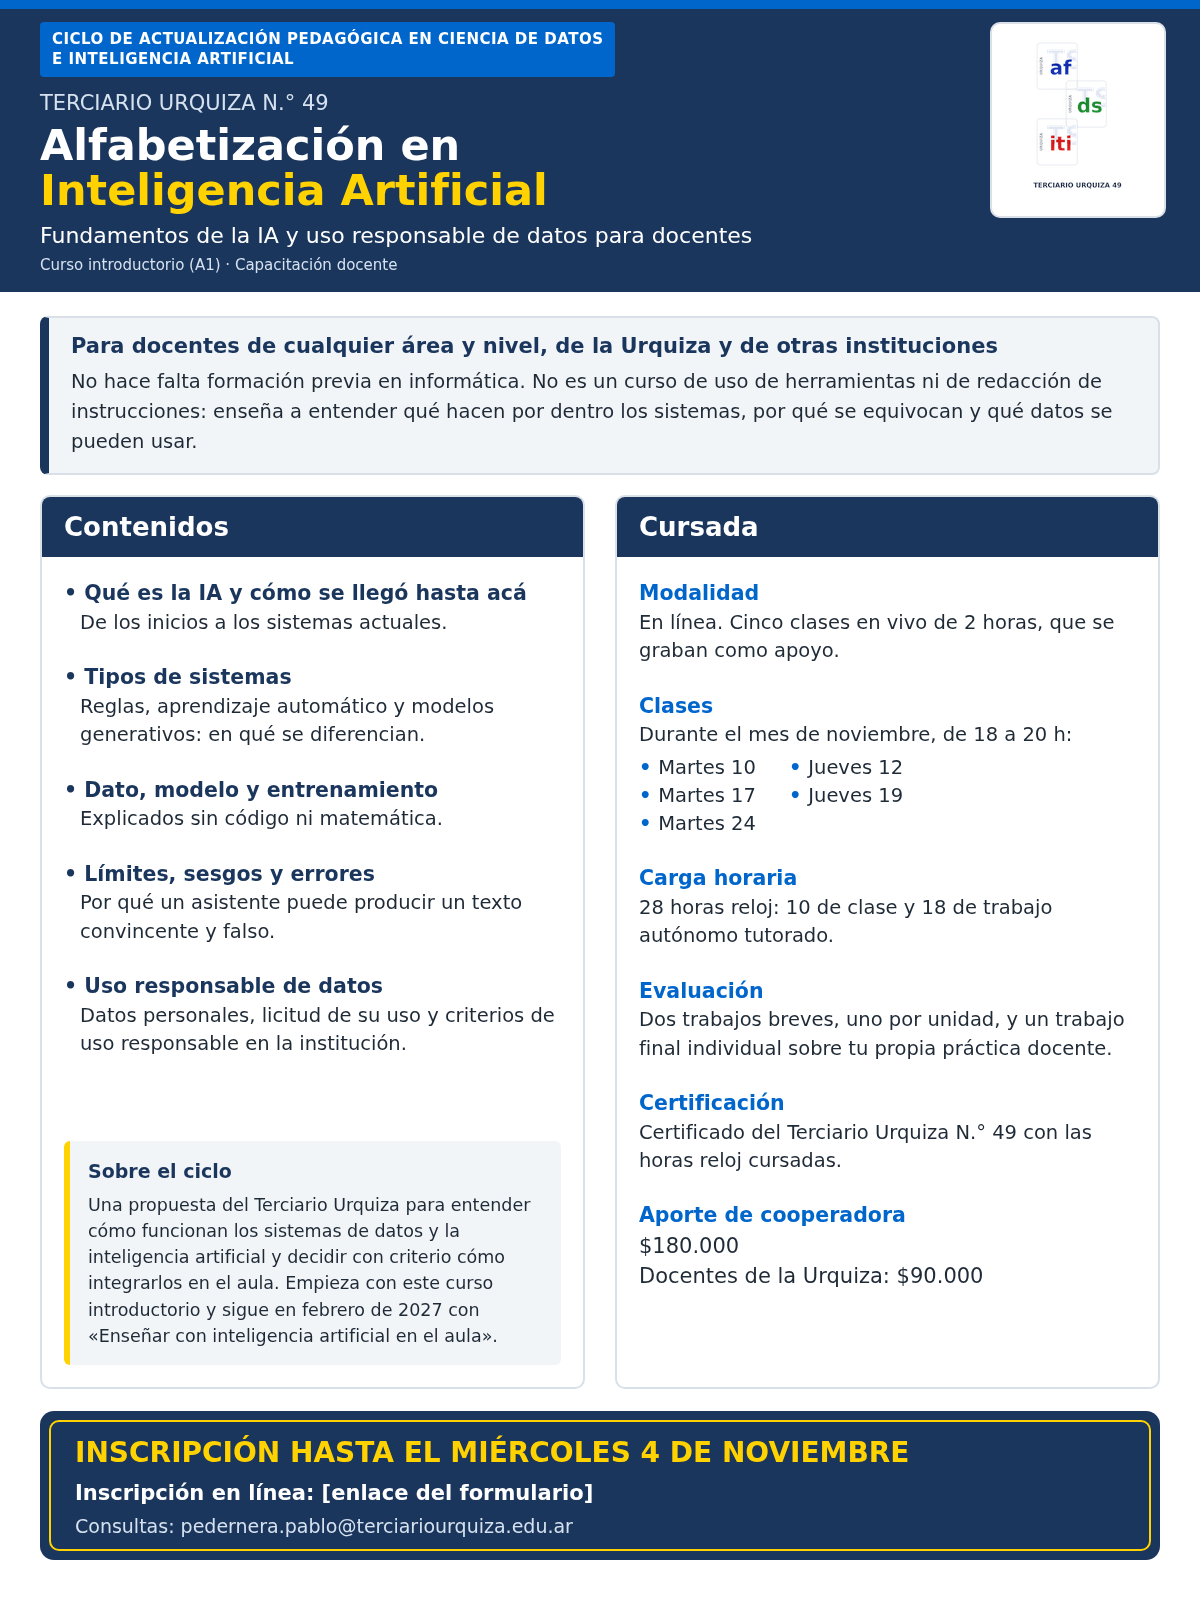
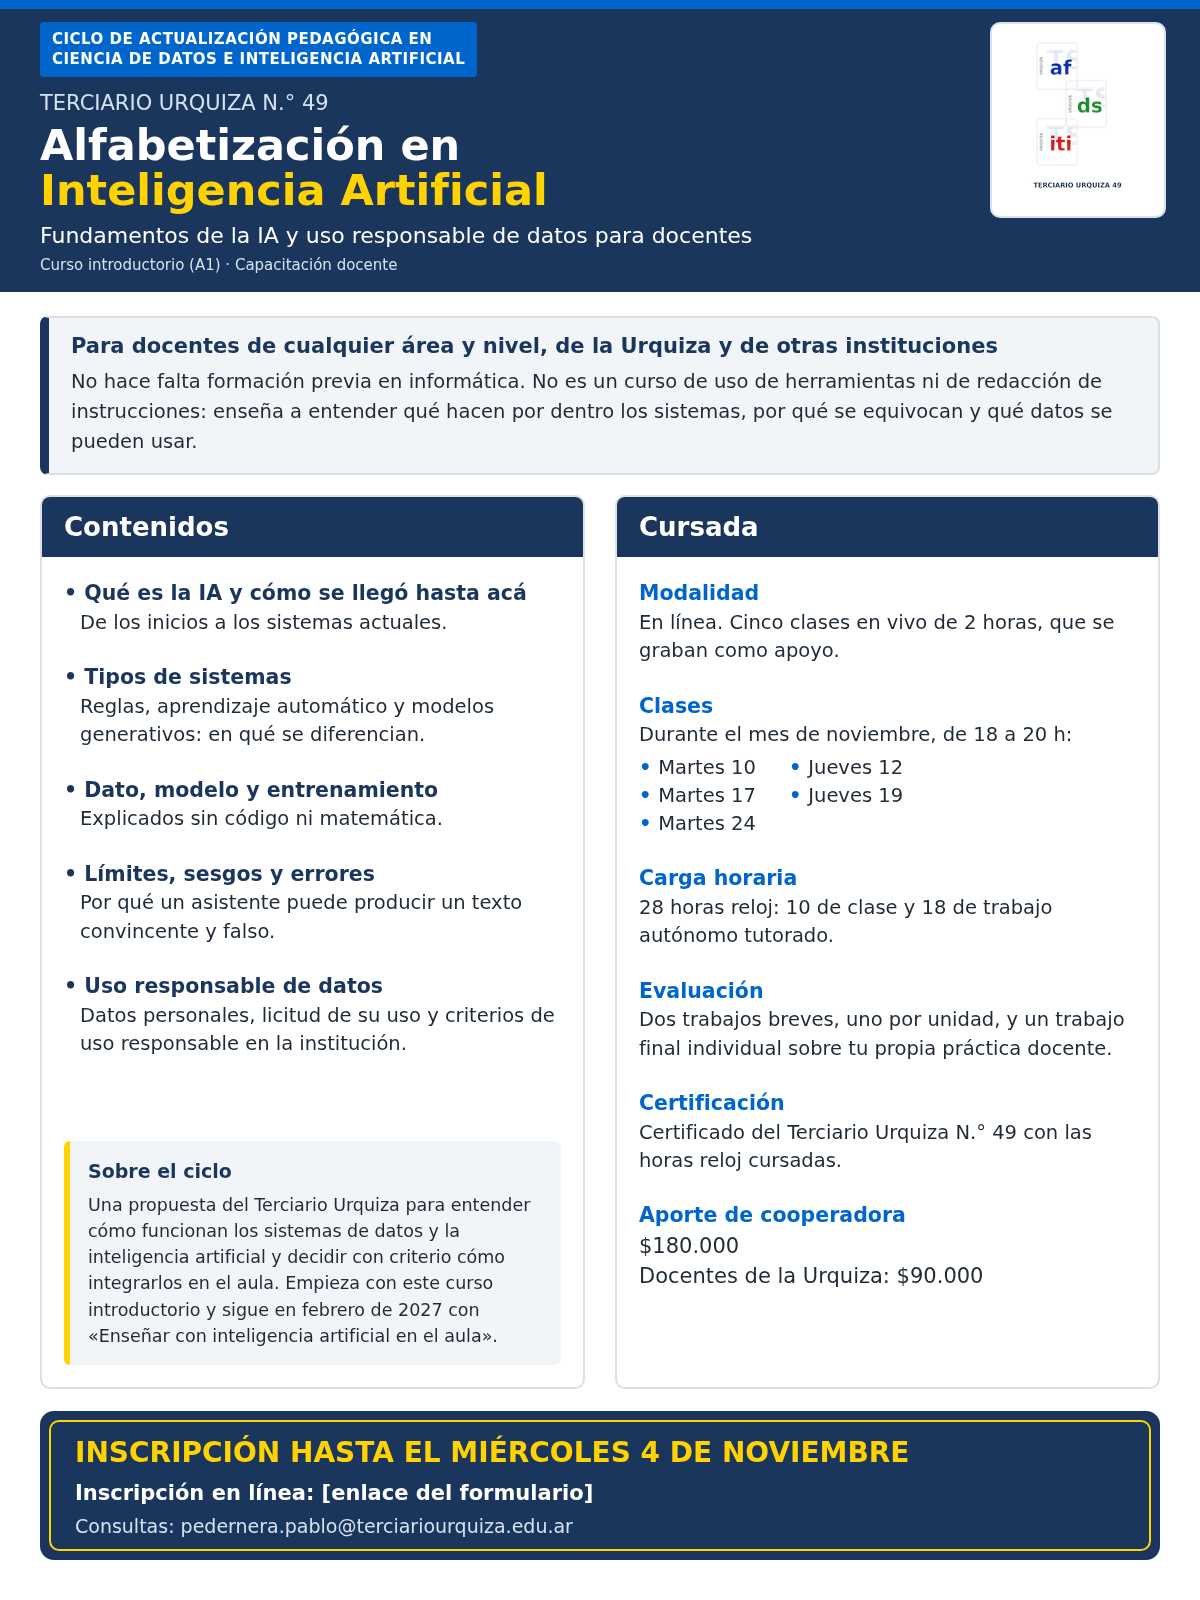
Flyer A1: nueva versión (corte de línea del rótulo del ciclo)

Changed region(s): [[0.0617, 0.0, 0.5242, 0.0625]]

diff --git a/ciclo-ia/flyer-a1/index.html b/ciclo-ia/flyer-a1/index.html
@@ -34,9 +34,9 @@
 </head>
 <body>
     <main>
-        <img src="flyer-a1.png?v=3" width="1200" height="1600"
+        <img src="flyer-a1.png?v=4" width="1200" height="1600"
              alt="Flyer del curso introductorio de Alfabetización en IA del Ciclo de Actualización Pedagógica en Ciencia de Datos e IA (borrador)">
-        <p><a href="flyer-a1.png?v=3" download="flyer-alfabetizacion-ia-urquiza.png">Descargar PNG</a></p>
+        <p><a href="flyer-a1.png?v=4" download="flyer-alfabetizacion-ia-urquiza.png">Descargar PNG</a></p>
     </main>
 </body>
 </html>
